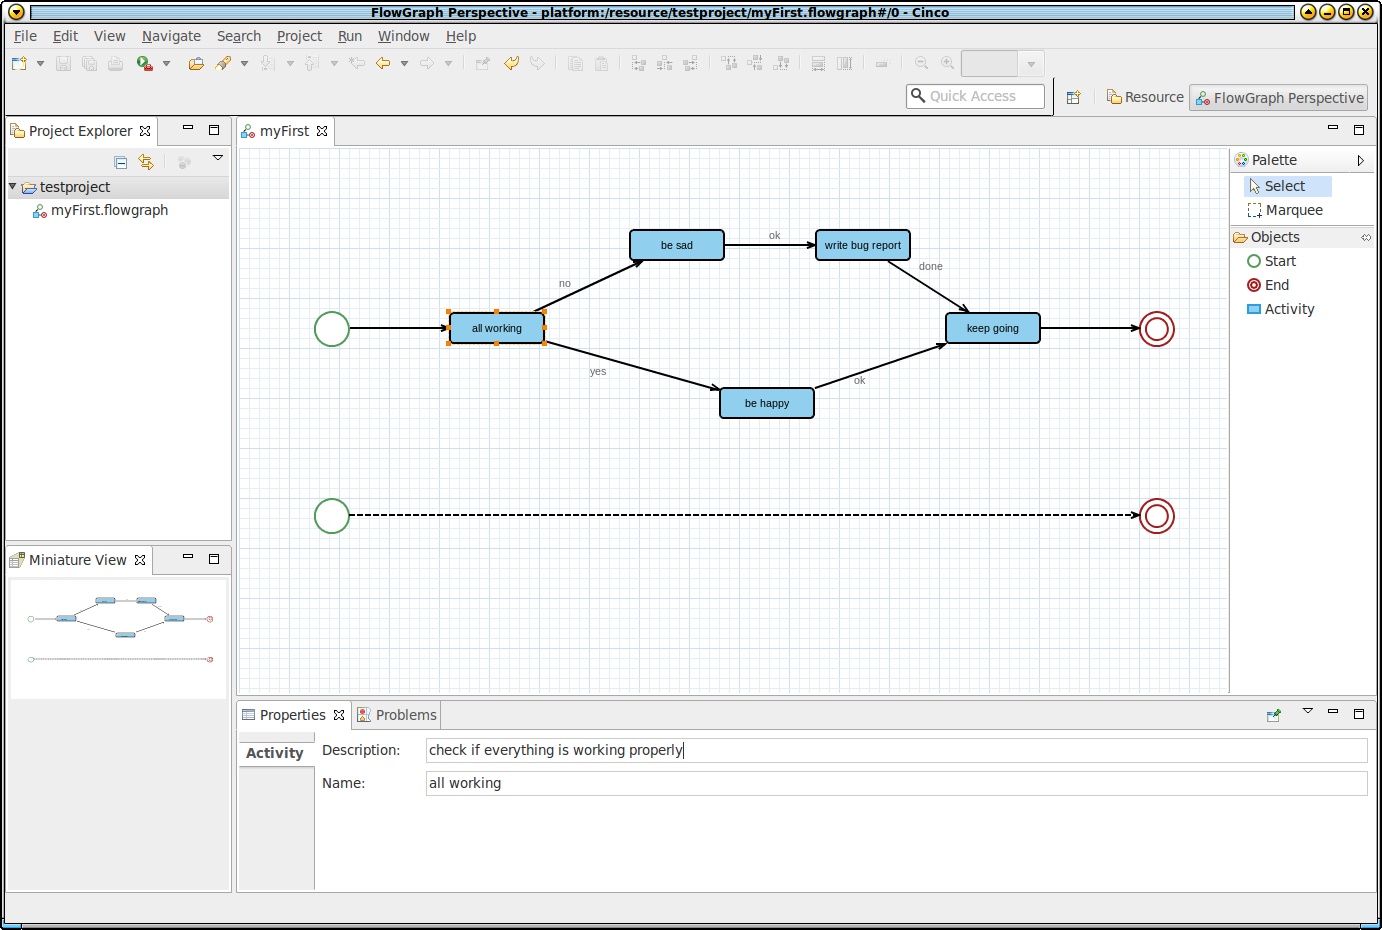
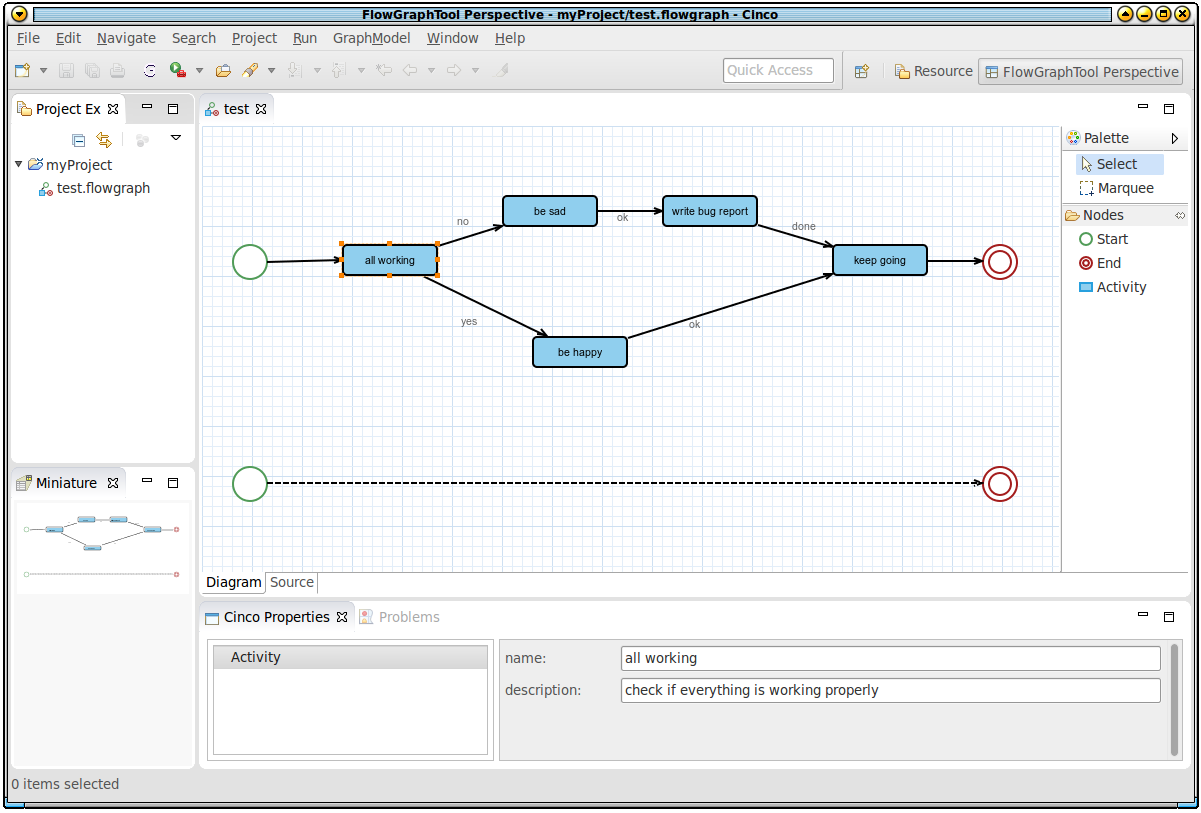
started updating cinco manual to 7.0 RC1

Changed region(s): [[0.0, 0.0, 1.0, 1.0]]

diff --git a/manual/cinco-manual.tex b/manual/cinco-manual.tex
@@ -3,7 +3,7 @@
 % rubber: module xr
 \documentclass[a4paper,american,12pt]{scrreprt}
 
-\usepackage[margin=1.5cm]{geometry}
+\usepackage[margin=1.8cm]{geometry}
 
 \usepackage{graphicx}
 \usepackage[headsepline]{scrpage2}
@@ -81,31 +81,37 @@
 \vfill
 \end{titlepage}
 
-
 \chapter{Basics}
 
 \section{About This Document}
 
 This is the technical manual for the ``\cinco SCCE Meta Tooling Suite'' (in
 short just \cinco). It is intended to provide a basic usage introduction as
-well as (coming soon) reference for all features and keywords. It only implicitely covers the
+well as (coming soon\texttrademark{}) reference for all features and keywords. It only implicitely covers the
 conceptual ideas behind \cinco. For a more in-depth and scientific view on those,
 please refer to the following publications:
 %
 \begin{itemize}
 %\item S. Naujokat et al.: Full generation of domain-specific graphical modeling tools: a
 %meta$^2$modeling approach \cite{NaLSKM2014}
-\item S. Naujokat et al.: Domain-Specific Code Generator Modeling: A Case Study for
-Multi-Faceted Concurrent Systems \cite{NaTISL2014}
-\item D. Kopetzki: Model-based generation of graphical editors on
-the basis of abstract meta-model specifications \cite{Kopetz2014}
+\item B. Steffen \& S. Naujokat: Archimedean Points: The Essence for Mastering Change~\cite{SteNau2016}
+\item S. Naujokat et al.: Meta-Level Reuse for Mastering Domain Specialization~\cite{NaNeMS2016}
+\item D. Kopetzki: Model-based generation of graphical editors on the basis of abstract meta-model specifications~\cite{Kopetz2014}
+\end{itemize}
+%
+For concrete applications, i.e, tools developed with \cinco{}, consider the following publications:
+\begin{itemize}
+\item S. Boßelmann et al.: DIME: A Programming-Less Modeling Environment for Web Applications~\cite{BFKLNN2016}
+\item N. Wortmann et al.: A Fully Model-Based Approach to Software Development for Industrial Centrifuges~\cite{WoMiNa2016}
+\item L.-M. Traonouez et al.: A Model-Based Framework for the Specification and Analysis of Hierarchical Scheduling Systems~\cite{TLKCSN2016}
+\item S. Naujokat et al.: Domain-Specific Code Generator Modeling: A Case Study for Multi-Faceted Concurrent Systems~\cite{NaTISL2014}
 \end{itemize}
 
 This document will constantly be revised and extendend. The latest version will
 always be available for download at \url{http://cinco.scce.info/resources/}. 
 
 \begin{description}
-\item[covered version] \cinco v. 0.6
+\item[covered version] \cinco v. 0.7.RC1
 \item[git commit id] \gitAbbrevHash{}
 \item[date of build] \today
 \end{description}
@@ -161,11 +167,11 @@ MERCHANTIBILITY AND FITNESS FOR A PARTICULAR PURPOSE.
 ===============================================================================
 \end{verbatim}
 
-\cinco{} requires OpenJDK 7 to be installed on your system as main Java
-installation (i.e. JAVA\_HOME pointing there). Apart from that, you just have to
-choose the correct zip file for download (Linux/Window/Mac in 32 or 64 bit
-variant), unzip it and execute the included binary: \code{cinco} for Mac and
-Linux, \code{cinco.exe} for Windows.
+\cinco{} requires Java JDK 8 to be installed on your system as main Java
+installation (i.e. JAVA\_HOME pointing there). Apart from that, you just have
+to choose the correct zip file for your operating system, unzip it and execute
+the included binary: \code{cinco} for Mac and Linux, \code{cinco.exe} for
+Windows.
 
 \section{Getting Started Tutorial}
 
@@ -224,7 +230,7 @@ is fixed, as the generated example is a flow graph. For now, you probably should
 the project/package name as suggested; if you create additional examples with
 the wizard later, you can choose different names here to distinguish them. Each
 feature you select at the bottom will generate additional parts in the example.
-We suggest to use \gui{Icons} and \gui{Appearance provider} to keep the files
+We suggest to only use \gui{Icons} and \gui{Appearance provider} to keep the files
 manageable small for your first attempt using \cinco{}. Confirm your
 selection with \gui{Finish}
 
@@ -245,7 +251,11 @@ selection with \gui{Finish}
 \end{figure}
 
 After running the wizard, the project explorer contains your freshly created
-project. Depending on the names you've chosen, it should now look somewhat
+project and a \code{README.txt} (which was generated based on the features you
+previously selected) is opened in the editor area. For now, you don't need to read it,
+as it contains information similar to this tutorial, but once you generate the example
+project with additional selected features, you should do so.
+Depending on the names you've chosen, the project explorer now looks somewhat
 similar to Fig.~\ref{fig:cpPreGen}. Please note that the compile error marked at
 \code{SimpleArrowAppearance.java} is not unexpected. The Java class refers to
 other Java entities that have not yet been generated. 
@@ -254,9 +264,9 @@ You might want to take a short look into those initialized files (especially the
 \code{model} folder), but before we delve more deeply
 into their contents (which we will do
 in Sec.~\ref{sec:examplefiles}), let's first generate this example CP and give
-it a try. Just right-click on the \cpd{FlowGraph.cpd} and
-choose \gui{Generate Cinco Product}. Shortly after, your project explorer should
-look like Fig.~\ref{fig:cpPostGen}. Several new files, directories, and
+it a try. Just right-click on the \cpd{FlowGraphTool.cpd} and
+choose \gui{Generate Cinco Product}. Shortly after, a dialog reporting success should appear and your project explorer
+looks like Fig.~\ref{fig:cpPostGen}. Several new files, directories, and
 projects -- which will be even more once you start using advanced
 features of \cinco{}, such as meta plug-ins -- have been generated. Also, the
 compile error we've noticed before is gone. 
@@ -287,27 +297,27 @@ it does not impose any obstacles other than ample unnecessary GUI elements.}
 Again, you should see an empty tool like Fig.~\ref{fig:firstStart}. To create a
 new model we first need a new project where it can be placed. This time,
 however, we don't need a \cinco product project (as we don't want to develop
-another \cinco product within the just started \cinco product). A plain project
-is enough this time. Right-click somewhere in the project explorer and select
-\gui{New / Project... / General / Project / Next >}, give the project some name
+another \cinco product within the just started \cinco product). 
+Right-click somewhere in the project explorer and select
+\gui{New / New FlowGraphTool Project}, give the project some name
 and click \gui{Finish}. Then, right-click on your newly created project and
-select \gui{New / Other... / Cinco Product / New FlowGraph} to create your
+select \gui{New / New FlowGraph} to create your
 first CP-specific model.
 
 The editor area now shows your empty model with a drawing grid. On the right
 side you see a \gui{Palette}, containing the elements you can now use for modeling.
-The elements you see there are in the \gui{Palette / Objects}
+The elements you see there are in the \gui{Palette / Nodes}
 category: \code{Start}, \code{End}, and \code{Activity}. Those are the three node
 types that are were automatically included in the \mgl{FlowGraph.mgl} by the
 wizard. Begin modeling by just drag\&dropping a few different nodes into the
 modeling area. To connect nodes, you can just hover over one and drag the small
 appearing arrow icon onto another one. For the \code{Activity} node type and
-the edges originating from them, you can use the \gui{Properties} view (bottom
-of your window) to set attributes; \code{Name} and \code{Description} for the
-node as well as \code{Label} for the edge. An activity's name is displayed
+the edges originating from them, you can use the \gui{Cinco Properties} view (bottom
+of your window) to set attributes; \code{name} and \code{description} for the
+node as well as \code{label} for the edge. An activity's name is displayed
 within the node shape (the blue box) and the edge label is shown as a floating
 (and movable) textbox next to the edge. Fig.~\ref{fig:firstModel} shows an
-example how your tool should look now.
+example how your tool might look now.
 
 \begin{figure}
 	\centering
@@ -325,9 +335,9 @@ The modeling elements abide by the following syntactic rules:
 	but no outgoing.
 \item \code{Activity} (blue box) nodes have multiple outgoing edges of type
 	\code{LabeledTransition}, and may have multiple incoming edges of both types.
-	The attribute \code{Name} is displayed centered within the box.
+	The attribute \code{name} is displayed centered within the box.
 \item \code{LabeledTransition} edges connect \code{Activity} nodes to arbitrary other nodes and
-	have their attribute \code{Label} displayed as movable caption next to it.
+	have their attribute \code{label} displayed as movable caption next to it.
 \item \code{Transition} edges only originate from \code{Start} nodes. If such an
 	edge directly leads to an \code{End} node, it is displayed with a dashed
 	line.
@@ -401,7 +411,7 @@ seperately for each occurance in the model.
 
 Node types can declare an arbitrary amount of such attributes. An attribute's
 name (written after the keyword \kw{as}) is displayed as a label next to the
-editing field in the \gui{Properties View}. Possible data types for attributes
+editing field in the \gui{Cinco Properties} view. Possible data types for attributes
 (written directly after the keyword \kw{attr}) are currently \code{EString},
 \code{EInt}, \code{EDouble} and enumerations defined within the MGL (not in this
 example). There is also basic support to reference instances of the other node
